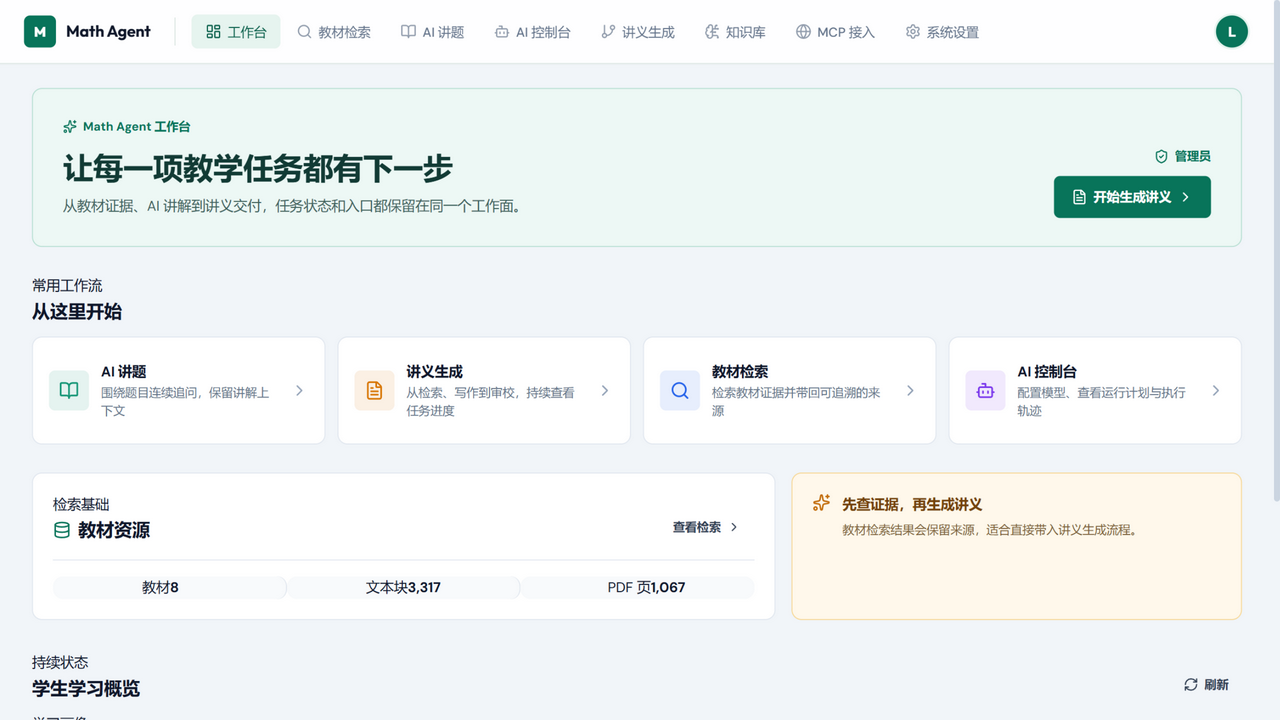
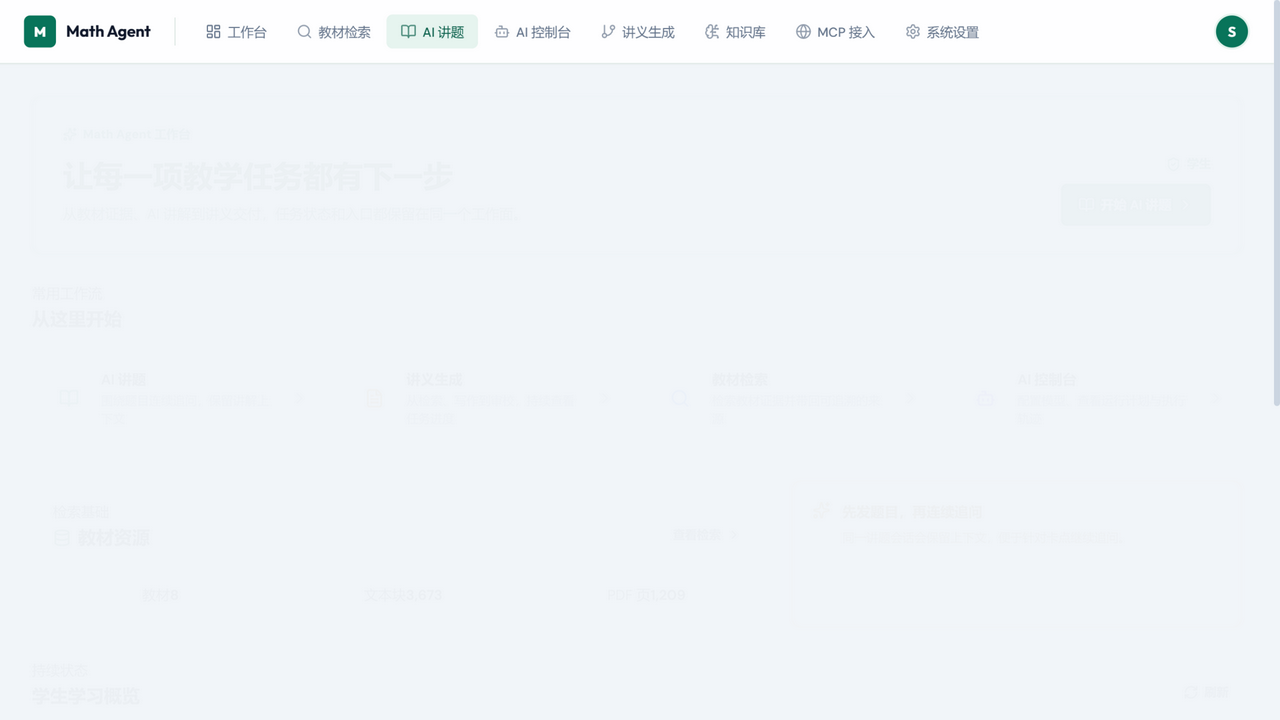
perf: autonomous tool calling via tool descriptions, decision route decoupled from model preference, honest TTFT metric
老板 2026-09-01 四轮反馈：
- 主动调用不写死：删除 react 提示词中'问教材必须检索'硬规则，决策轮改收
  availableTools 能力描述清单（REACT_TOOL_CATALOG），模型自主判断；真机验证
  删规则后仍主动选 search_textbook 并命中真实页码
- 首字口径：firstTokenMs 从'提交→正文首字'改为'思考开始→正文首字'，
  决策+检索系统开销不再计入模型首字（tooltip 同步）
- 提速：决策轮不再吃用户模型偏好（GLM 强制思考连决策 JSON 想 29s），
  固定默认 fast_text 路由；实测全程 70s→35s
- compose 结构化输出失败（GLM flash JSON 不合格）不再终止整轮，允许回退
  下一 provider；新增 provider_attempt_failed 结构化诊断日志
- README 新增 AI 讲题实拍（思考徽标/首字口径/模型下拉/真实页码证据），
  工作台数字更新 3,673 块/1,209 页

diff --git a/frontend/src/app/App.tsx b/frontend/src/app/App.tsx
@@ -1120,9 +1120,12 @@ export function App() {
     // The completed event is authoritative even if the SSE transport needs extra time to close cleanly.
     let completedResponseReceived = false;
     let streamedCharacterCount = 0;
-    // 首 token 计时用单调时钟：firstTokenMs 是提交到首个讲解增量到达的真实耗时（TTFT），
-    // totalMs 是整个流式回合的耗时。两者都展示在回答卡上并输出到控制台，便于持续压响应速度。
+    // 首 token 计时用单调时钟：老板 2026-09-01 反馈"首字 61s 有问题，统计应该从思考开始"——
+    // 提交到思考开始之间是 react 决策轮+向量检索等系统开销，混进"首字"会高估模型延迟。
+    // 新口径：firstTokenMs = 首个讲解增量 − 首个思考增量（compose 思考开始）；无思考的模型回退到提交时刻。
+    // totalMs 仍是整个流式回合的耗时，两者都展示在回答卡上并输出到控制台，便于持续压响应速度。
     const submitMonotonicMs = performance.now();
+    let thinkingStartMonotonicMs: number | null = null;
     let firstTokenMs: number | null = null;
     setSubmittingTeachingConversation(true);
     setTeachingError("");
@@ -1180,10 +1183,14 @@ export function App() {
           completedResponseReceived = true;
           setSubmittingTeachingConversation(false);
         }
+        // 思考开始锚点：决策轮的推理不会下发到本流，首个 aiReasoningDelta 即讲解 compose 的思考开始。
+        if (thinkingStartMonotonicMs === null && (payload.aiReasoningDelta || "").length > 0) {
+          thinkingStartMonotonicMs = performance.now();
+        }
         // 首内容兜底：部分模型通道不吐增量，首个内容是 completed 事件里的完整结果。
-        // 无论哪种形态，都把“第一个讲解字到达”如实记为 TTFT，不虚构流式速度。
+        // 无论哪种形态，都把“第一个讲解字到达 − 思考开始”如实记为 TTFT，不虚构流式速度。
         if (firstTokenMs === null && ((payload.aiContentDelta || "").length > 0 || !!payload.response)) {
-          firstTokenMs = Math.round(performance.now() - submitMonotonicMs);
+          firstTokenMs = Math.round(performance.now() - (thinkingStartMonotonicMs ?? submitMonotonicMs));
           // 控制台输出结构化速度日志，配合回答卡上的“首字”徽标，方便持续优化首 token 响应。
           globalThis.console?.info?.(`[telemetry] first-token ${firstTokenMs}ms conversation=${activeConversationId}`);
         }

diff --git a/frontend/src/app/components/TeachingConversationPanel.tsx b/frontend/src/app/components/TeachingConversationPanel.tsx
@@ -471,7 +471,7 @@ function LiveAssistantResponse({ entry }: { entry: Extract<TeachingConversationT
           {reasoning ? reasoningTailText(reasoning) : activeStage ? stageDetailText(activeStage) : "正在整理思路…"}
         </span>
         {typeof entry.firstTokenMs === "number" ? (
-          <span className="teaching-speed-chip good" title="从提交到首个讲解内容到达的耗时">首字 {formatSpeedMs(entry.firstTokenMs)}</span>
+          <span className="teaching-speed-chip good" title="从思考开始到首个讲解内容到达的耗时（决策与检索等系统开销不计入）">首字 {formatSpeedMs(entry.firstTokenMs)}</span>
         ) : null}
         <span className="teaching-thinking-elapsed"><Loader2 className="spin" size={12} />{formatElapsed(liveElapsedMs)}</span>
         <ChevronRight size={15} className="teaching-thinking-chevron" aria-hidden="true" />
@@ -602,7 +602,7 @@ function AssistantResponse({
       <EvidenceInspector response={response} stages={stages} sources={sources} reasoningTrace={reasoning} />
       <div className="teaching-answer-content">
         {typeof firstTokenMs === "number" ? (
-          <div className="teaching-speed-line" title="首个讲解内容到达 / 本轮讲解全程耗时">
+          <div className="teaching-speed-line" title="首字=思考开始到首个讲解内容（不含决策与检索） / 全程=本轮讲解总耗时">
             <span className="teaching-speed-chip good">首字 {formatSpeedMs(firstTokenMs)}</span>
             {typeof totalMs === "number" ? <span className="teaching-speed-chip">全程 {formatSpeedMs(totalMs)}</span> : null}
           </div>

diff --git a/ai-worker-python/app/workload_runtime.py b/ai-worker-python/app/workload_runtime.py
@@ -83,6 +83,23 @@ class ExplanationEvidence(BaseModel):
     snippet: str = Field(default="", max_length=1_600)
 
 
+# 工具目录（老板 2026-09-01："让它主动调用，不要写死在流程中"）：决策轮不再用"问教材就必须检索"
+# 这类写死规则，而是把每个工具的能力与适用事实类型如实告诉模型，由模型对照题目自主决定 action/final。
+# 描述只陈述工具能取到什么，不指定任何题型的路由；权限 allow-list 仍由 Java availableTools 决定。
+REACT_TOOL_CATALOG: dict[str, str] = {
+    "search_textbook": "检索已入库高中教材的正文块、章节目录与页码。教材版本、页码、章节结构、"
+                       "教材原文的引入/例题/习题等都不在题目里，需要这类外部事实时才能取到。",
+    "match_knowledge_graph": "把题目知识点匹配到学科知识图谱主干，用于说明前置、后续与相关知识点关系。",
+    "search_teacher_resources": "检索本次运行已授权的教师资料（讲义、题库、课件）正文，"
+                                "题目出处、配套练习与教师讲解素材需要这类外部事实时才能取到。",
+}
+
+
+def react_tool_catalog_entries(names: list[str]) -> list[dict[str, str]]:
+    """把 Java 签发的工具名映射为带能力描述的清单；未收录的名字不下发描述，避免泄露内部工具。"""
+    return [{"name": name, "description": REACT_TOOL_CATALOG.get(name, "")} for name in dict.fromkeys(names)]
+
+
 class StudentExplanationRunRequest(BaseModel):
     """学生解释模型合同；检索和引用授权仍由 Java 完成。"""
 
@@ -299,17 +316,14 @@ class MigratedWorkloadRuntime:
                     "final 必须同时返回 cards，引用只能来自 evidence。不要输出推理过程或 Markdown。"
                     "题干已经给出全部条件且可通过代数、几何或定义直接完成的题目，必须选择 final，"
                     "不得为了复述通用概念而检索；只有缺少题目所必需的外部事实时才能选择 action。"
-                    # 老板实测：问"教材哪一页/哪个版本"这类资料定位问题被模型当自洽题跳过检索，答成泛泛而谈。
-                    # 教材版本、页码、章节、出处属于题目自身无法给出的外部事实，必须强制走检索工具。
-                    "当题目询问教材、课本、页码、章节、目录、版本（如人教A版/B版）、资料出处或配套练习时，"
-                    "这些是题目本身不包含的外部事实：必须选择 action，优先调用 search_textbook，"
-                    "并生成 2-4 个含具体知识点名的检索词（如\"人教B版 选择性必修 排列组合 章节定位\"）。"
+                    "对照 availableTools 中每个工具能取到的事实类型自主判断：题目所需的事实在题目之外、"
+                    "且某个工具恰好能取到时才调用；检索词写具体知识点名，2-4 个。"
                     "思考时请用连贯完整的中文说明判断依据；不要在思考中逐字拼装 JSON 或输出英文碎片。"
                     + MATH_MARKUP_OUTPUT_CONTRACT
                 )},
                 {"role": "user", "content": json.dumps({
                     "problem": request.problem,
-                    "availableTools": list(dict.fromkeys(request.availableTools)),
+                    "availableTools": react_tool_catalog_entries(request.availableTools),
                     "observations": request.observations,
                     "evidence": [item.model_dump() for item in request.evidence],
                 }, ensure_ascii=False)},
@@ -473,15 +487,37 @@ class MigratedWorkloadRuntime:
                     status = exc.response.status_code if exc.response is not None else 0
                     error = f"HTTP_{status}"
                     retryable = status == 429 or status >= 500
+                    error_detail = str(exc)
                 except (requests.RequestException, ValueError, KeyError, json.JSONDecodeError) as exc:
                     error = type(exc).__name__
                     retryable = True
-                if visible_output:
+                    error_detail = str(exc)
+                # 老板 2026-09-01"太慢了"：GLM flash 的 compose JSON 经常不合格，旧逻辑一旦吐过正文
+                # 增量就 503 终止整轮、不回退。结构化输出（require_json_object）下学生看到的只是
+                # 直播面板的过程文本，终稿由 completed 事件的 cards 整包渲染，半截 JSON 增量不会
+                # 进入终稿，因此允许换下一个 provider 重试；自由文本模式仍保持 fail-closed。
+                if visible_output and not require_json_object:
                     raise HTTPException(
                         status_code=503,
                         detail="provider stream interrupted after visible output: " + selection.name,
                     )
                 failures.append(selection.name + ":" + error)
+                # 老板 2026-09-01 验收：GLM flash compose 失败时整条链只有 usage ledger 的 ValueError 字样，
+                # 无法区分"通道断/JSON 不合格/超时"，这里把 provider 路由与失败上下文如实落一条结构化日志。
+                logger.warning(json.dumps({
+                    "event": "provider_attempt_failed",
+                    "runId": run_id,
+                    "provider": selection.name,
+                    "model": selection.model,
+                    "attempt": attempt,
+                    "error": error,
+                    "errorDetail": error_detail[:200],
+                    "retryable": retryable,
+                    "visibleOutput": visible_output,
+                    "requireJson": require_json_object,
+                    "contentChars": sum(len(part) for part in content_parts),
+                    "route": [item.name for item in [route.primary, *route.fallbacks]],
+                }, ensure_ascii=False, sort_keys=True))
                 self._ledger.append(UsageEvent(
                     run_id, selection.name, selection.model, attempt, "FAILED", 0, 0, 0, -1.0,
                     "unavailable", error,
@@ -519,7 +555,7 @@ class MigratedWorkloadRuntime:
             )},
             {"role": "user", "content": json.dumps({
                 "problem": request.problem,
-                "availableTools": available_tools,
+                "availableTools": react_tool_catalog_entries(available_tools),
                 "observations": request.observations,
                 "evidence": [item.model_dump() for item in request.evidence],
             }, ensure_ascii=False)},

diff --git a/backend-java/src/main/java/com/doob/mathagent/student/service/StudentExplanationService.java b/backend-java/src/main/java/com/doob/mathagent/student/service/StudentExplanationService.java
@@ -381,11 +381,13 @@ public class StudentExplanationService {
                         "AI已开始判断，正在生成实际工具和检索参数。");
             }
         };
+        // 决策轮固定走默认快速路由，不吃用户的讲解模型偏好（老板 2026-09-01"太慢了"）：
+        // 偏好模型（如 GLM 强制思考）连输出一个决策 JSON 都要先想近 30 秒，纯系统开销；
+        // "模型切换"语义只作用于讲解生成（compose），决策与检索属于基础设施仍用默认 fast_text 路由。
         StudentExplanationAiCardService.ReactDecision decision = aiCardService.nextReactDecision(
                 reactProblemContext(visibleQuestion, packedConversationContext),
                 sources, observations, available, imageDataUrl, decisionStream,
-                request.clientRequestId() + ":react",
-                request.preferredProviderName(), request.preferredModelCode());
+                request.clientRequestId() + ":react");
         String decisionDetail;
         if (decision.isFinal()) {
             decisionDetail = "AI判断题目自洽，本轮不执行检索。";

diff --git a/ai-worker-python/tests/test_workload_runtime.py b/ai-worker-python/tests/test_workload_runtime.py
@@ -474,7 +474,10 @@ class MigratedWorkloadContractTest(unittest.TestCase):
 
         self.assertEqual(post.call_count, 2)
         self.assertEqual(events[-1]["attempt"], 2)
-        logged = warning.call_args.args[0]
+        # provider_attempt_failed 诊断日志（2026-09-01）会在帧日志之后再 warning 一次，
+        # 契约断言改为扫描全部 warning 调用中的 non_json_frame 那一条。
+        logged = next(call.args[0] for call in warning.call_args_list
+                      if '"event": "provider_sse_non_json_frame"' in call.args[0])
         self.assertIn('"event": "provider_sse_non_json_frame"', logged)
         self.assertIn('"frameLength": ' + str(len(unknown_frame)), logged)
         self.assertIn('"requestId": "relay-request-1"', logged)

diff --git a/README.md b/README.md
@@ -79,9 +79,13 @@ flowchart TD
 
 以下截图取自本地真实运行的前端控制台（`http://127.0.0.1:5173`）：
 
-**工作台**——教学任务入口与教材资源统计（教材 8 册、文本块 3,317、PDF 页 1,067）：
+**工作台**——教学任务入口与教材资源统计（教材 8 册、文本块 3,673、PDF 页 1,209）：
 
 ![工作台](docs/assets/frontend/dashboard.png)
+
+**AI 讲题**——Qwen 式对话界面：模型可切换下拉、"已完成思考"徽标带首字/全程耗时（首字从思考开始计时，决策与检索不计入）、思考与搜索面板展示 AI 自主决策、教材检索与真实页码证据：
+
+![AI 讲题](docs/assets/frontend/teaching-chat.png)
 
 **讲义生成**——讲义母版选择、教学目标提交与三版本 PDF 生成入口：
 
